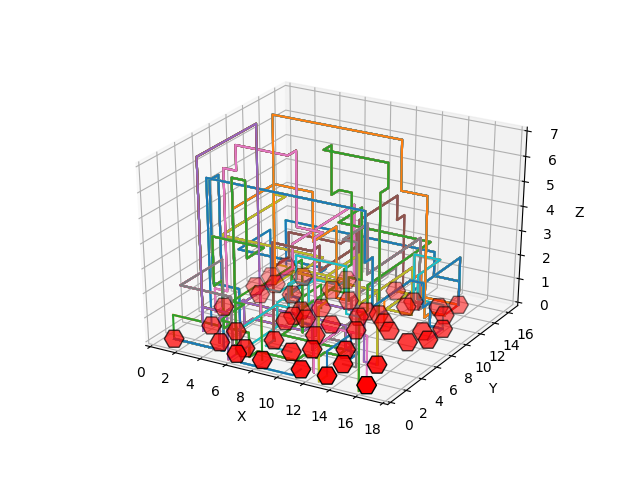
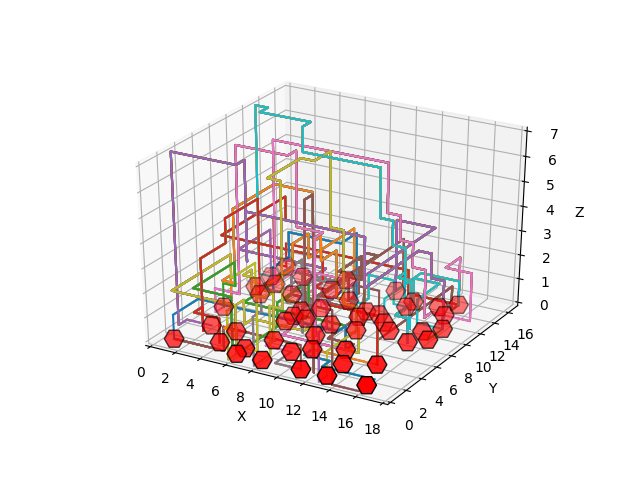
stats and comare

Changed region(s): [[0.25, 0.2188, 0.75, 0.8125]]

diff --git a/code/algorithms/hillclimb.py b/code/algorithms/hillclimb.py
@@ -1,5 +1,6 @@
 from code.algorithms.xyz_move import xyz_wire
 from code.algorithms.astar import execute_astar
+import random
 
 def find_point_stuck(output_dict, unsolved_wire):
 	""" Find the point where the wire gets stuck in the grid. """
@@ -18,17 +19,23 @@ def find_point_stuck(output_dict, unsolved_wire):
 
 				# find the point where wire gets stuck
 				if net[1][0] == point[0] and net[1][1] == point[1] and (unsolved_wire[net].count(point) == 1) or point == unsolved_wire[net][-1]:
+					#put wire and point in dictionary
 					stuck_wires[net] = wire
 					stuck_point[net] = point
 					break
 
+				# add point to list if stuck-point is not found
 				wire.append(point)
 
 	return stuck_point, stuck_wires
 
 def change_wires(stuck_points, stuck_wires, chip, output_dict):
+	""" Lays the remaining points of the wires that got stuck with the use of A*. """
 
 	new_output_dict = {}
+
+
+
 	for net, point in stuck_points.items():
 		# make new netlist
 		new_netlist = [(point, net[1])]
@@ -41,11 +48,7 @@ def change_wires(stuck_points, stuck_wires, chip, output_dict):
 			stuck_wires[net] += next(iter(new_wires.values()))
 			new_output_dict[net] = stuck_wires[net]
 
+	# update the output with new wires
 	output_dict.update(new_output_dict)
-
-	unsolved_count = 0
-
-	for net in stuck_points:
-		unsolved_count += 1
 
 	return output_dict

diff --git a/COMPARE.md b/COMPARE.md
@@ -1,0 +1,11 @@
+# Compare
+
+## This file is used to make comparisons between algoritms and heuristics.
+
+* hoe hoger de netlist of chip, hoe minder hij kan oplossen.
+
+* de hillclimb lost altijd meer op dan xyz_move alleen, dit omdat het een extentie is op xyz_move
+
+* de most_common sortering werkt in chip 1, netlist 1 het beste, in chip 2 netlist 1 werkt straight_first het best
+
+* straight_first is gets better results than most_common in chip 2, netlist 1 & 3. count is 0.02 % higher and cost is lower
